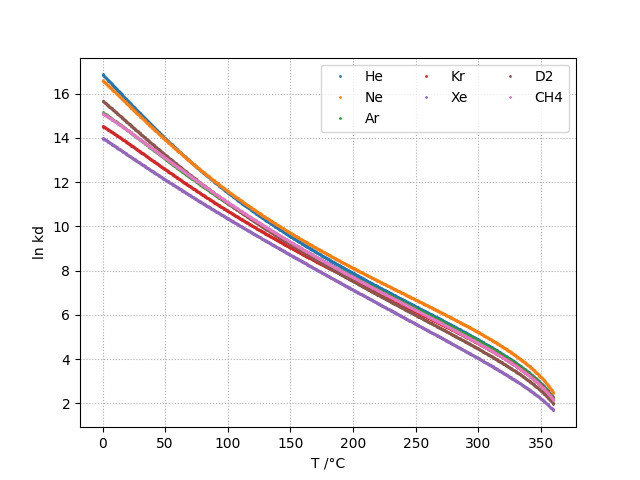
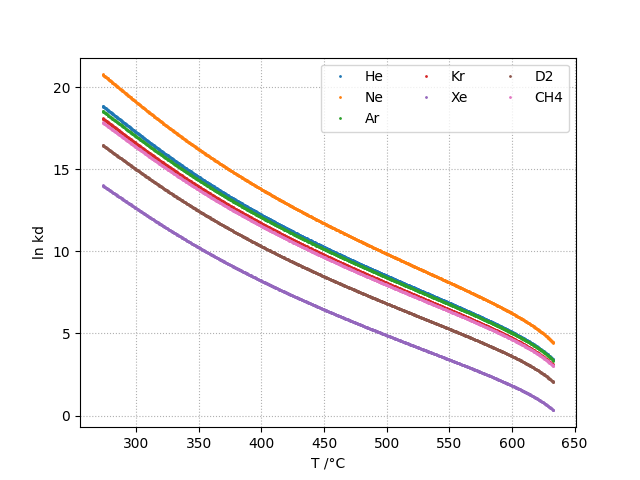
ENH: API break for g704 kh and kd. T is now in Kelvin.

diff --git a/example/example.py b/example/example.py
@@ -22,15 +22,15 @@ print("")
 
 print("########################## IAPWS G7-04 ##########################")
 gas  = "O2"
-T = array.array("d", (25.0,))
+T = array.array("d", (25.0+273.15,))
 
 # Compute kh and kd in H2O
 heavywater = False
 k = pyiapws.g704.kh(T, "O2", heavywater)
-print(f"Gas={gas}\tT={T[0]}C\tkh={k[0]:+10.4f}\n")
+print(f"Gas={gas}\tT={T[0]}K\tkh={k[0]:+10.4f}\n")
 
 k = pyiapws.g704.kd(T, "O2", heavywater)
-print(f"Gas={gas}\tT={T[0]}C\tkh={k[0]:+10.4f}\n")
+print(f"Gas={gas}\tT={T[0]}K\tkd={k[0]:+10.4f}\n")
 
 # Get and print the available gases
 heavywater = False
@@ -53,7 +53,7 @@ for gas in gases_list:
 
 style = {"marker":".", "ls":"", "ms":2}
 T_KELVIN = 273.15
-T = np.linspace(0.0, 360.0, 1000)
+T = np.linspace(0.0, 360.0, 1000) + 273.15
 
 solvent = {True: "D2O", False: "H2O"}
 

diff --git a/example/example.c b/example/example.c
@@ -4,7 +4,7 @@
 
 int main(void){
 
-    double T = 25.0; /* in C*/
+    double T = 25.0 + 273.15; /* in C*/
     char *gas = "O2";
     double kh, kd;
     char **gases_list;
@@ -31,10 +31,10 @@ int main(void){
     printf("%s\n", "########################## IAPWS G7-04 ##########################");
     /* Compute kh and kd in H2O*/
     iapws_g704_kh(&T, gas, heavywater, &kh, strlen(gas), 1);
-    printf("Gas=%s\tT=%fC\tkh=%+10.4f\n", gas, T, kh);
+    printf("Gas=%s\tT=%fK\tkh=%+10.4f\n", gas, T, kh);
     
     iapws_g704_kd(&T, gas, heavywater, &kd, strlen(gas), 1);
-    printf("Gas=%s\tT=%fC\tkd=%+15.4f\n", gas, T, kd);
+    printf("Gas=%s\tT=%fK\tkd=%+15.4f\n", gas, T, kd);
 
     /* Get and print the available gases */
     ngas = iapws_g704_ngases(heavywater);

diff --git a/py/src/pyiapws/g704.py b/py/src/pyiapws/g704.py
@@ -13,7 +13,7 @@ def kh(T: np.ndarray, gas: str, heavywater: bool=False)->Union[np.ndarray, float
     Parameters
     ----------
     T: int, float or 1d-array.
-        Temperature in °C.
+        Temperature in K.
     gas: str    
         Gas.
     heavywater: bool
@@ -45,7 +45,7 @@ def kd(T: np.ndarray, gas: str, heavywater: bool=False)->Union[np.ndarray, float
     Parameters
     ----------
     T: int, float, or 1d-array.
-        Temperature in °C.
+        Temperature in K.
     gas: str    
         Gas.
     heavywater: bool
